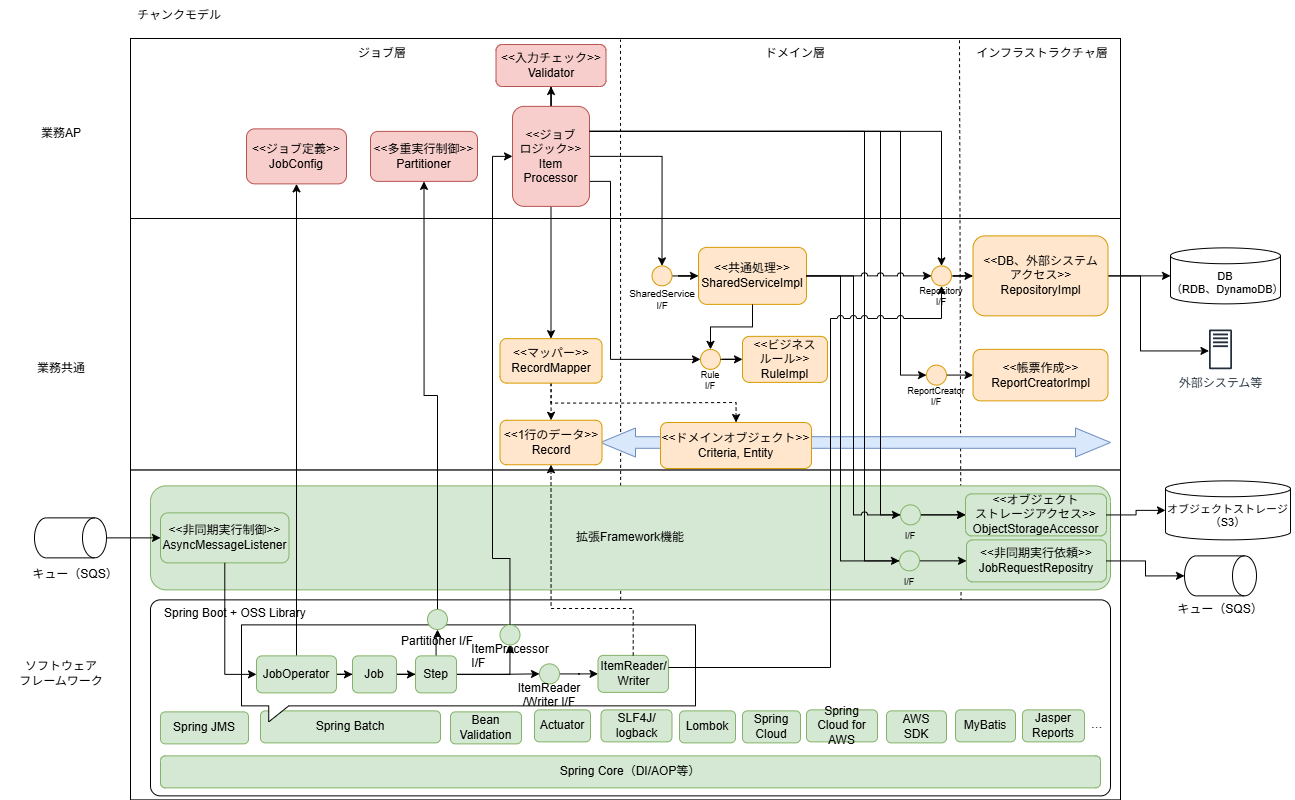
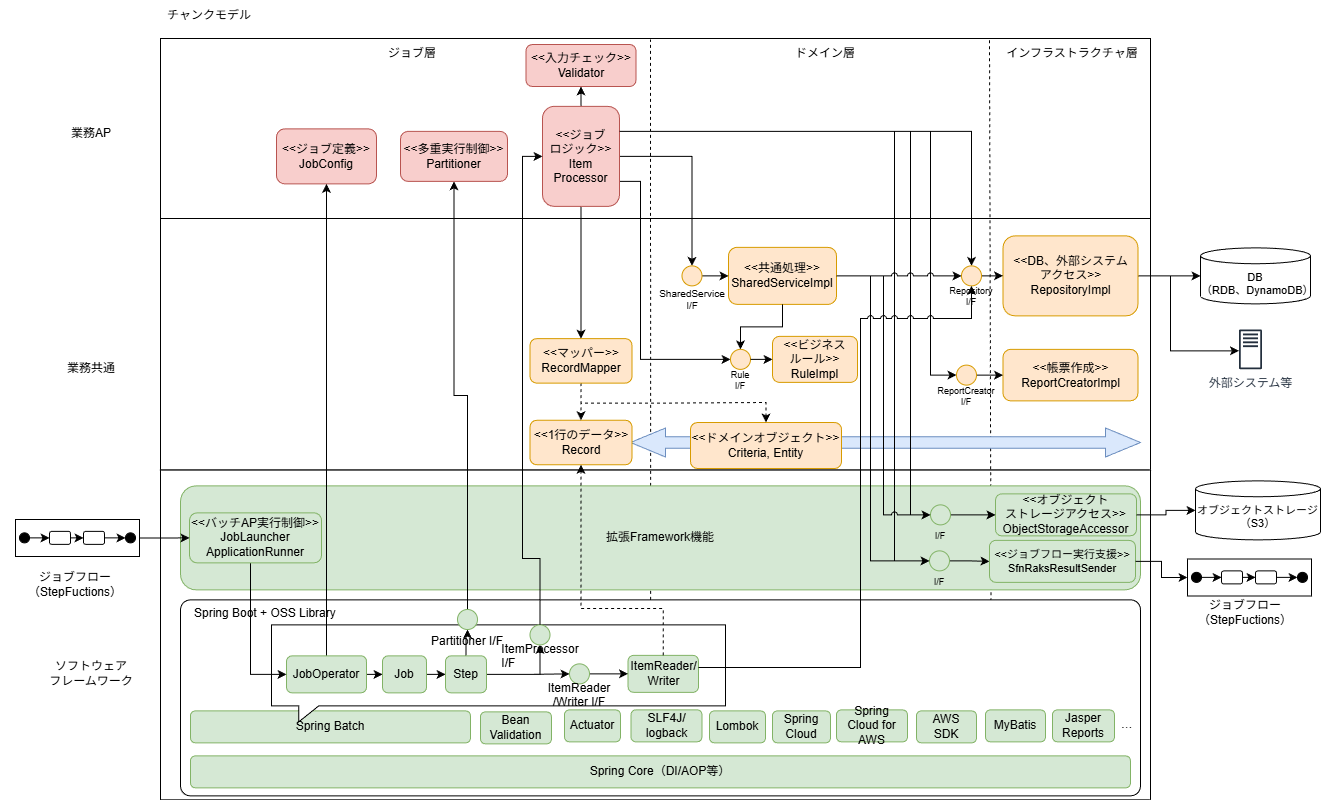
README修正

diff --git a/README.md b/README.md
@@ -1,11 +1,6 @@
 # SpringBootのジョブフローの純バッチアプリケーションサンプル
 
-> [!WARNING]
->
-> 現在、サンプルAPを作成中です。
-
-
-## 概要
+## 1. 概要
 * Spring BootでAWS Step Functionsを使って、ステートマシンをジョブの実行順序を管理するジョブフローとして実行する、バッチのサンプルAPである。
 * アプリケーションは、Spring Batchを使用しており、コマンドライン引数で指定されたジョブIDとジョブの入力データをもとに、ジョブを実行するようになっている。
 * Step Functionsのステートマシンからジョブの実行順序制御（実行順序制御するフローを「ジョブフロー」と呼ぶことにする）を行う。
@@ -23,33 +18,58 @@
 ![ソフトウェアアーキテクチャ（チャンク）](img/architecture-chunk.png)
 
 
-## プロジェクト構成
+## 2. プロジェクト構成
 * sample-batch-flow
     * 本プロジェクト。Spring Bootのバッチアプリケーションで、Step Functionsを介してジョブを処理することが可能である。    
         * デフォルトでは「spring.profiles.active」プロパティが「dev」になっている。プロファイルdevの場合は、RDB永続化にはH2DBによる組み込みDBになっている。
         * プロファイルproductionの場合は、RDB永続化にはPostgreSQL（AWS上はAurora等）になっている。
 
-## 事前準備
-* 以下のライブラリを用いているので、EclipseのようなIDEを利用する場合には、プラグインのインストールが必要
+## 3. 事前準備
+* 以下のライブラリを用いているので、EclipseやIntelliJのようなIDEを利用する場合には、プラグインのインストールが必要
     * [Lombok](https://projectlombok.org/)
         * [Eclipseへのプラグインインストール](https://projectlombok.org/setup/eclipse)
         * [IntelliJへのプラグインインストール](https://projectlombok.org/setup/intellij)
     * [Mapstruct](https://mapstruct.org/)
         * [EclipseやIntelliJへのプラグインインストール](https://mapstruct.org/documentation/ide-support/)
 
-## 動作手順
+
+## 4. IDEでのアプリ起動
 
 * Step Functionsを使ったAWS上での動作確認は、[こちら](https://github.com/mysd33/ecs-on-fargate-adot-cfn-demo)のCloudFormationのサンプルテンプレートを利用して、AWS上にAPをデプロイし、Step Functionsのステートマシンからジョブフローを実行することで可能である。
 
+* このため、ローカル上でのAP動作は、ジョブごとでの実行のみが可能である。
 
-* ローカル上でのAP動作は、ジョブごとでの実行のみが可能である。
+* com.example.batch.SampleBatchJobflowApplicationを起動することで、SpringBootのバッチアプリケーションが起動する。
+* コマンド引数として、以下のようなダミー値を渡す。
+    * Job901
+        * `--spring.batch.job.name=job901 inputData=input901`    
+    * Job902
+        * `--spring.batch.job.name=job902 inputData="{\"result\":\"result_job901\"}"`
+    * Job911
+        * `--spring.batch.job.name=job911 inputData=input911`
+    * Job912
+        * `--spring.batch.job.name=job912 inputData=input912`
+    * Job913
+        * `--spring.batch.job.name=job913 inputData="[{\"result\":\"result_job911\"},{\"result\":\"result_job912\"}]"`
+    * Job921
+        * `--spring.batch.job.name=job921 inputData=input921`    
+    * Job922
+        * `--spring.batch.job.name=job922 inputData="{\"result\":\"result_921_0\"}"`
+    * Job923
+        * `--spring.batch.job.name=job923 inputData="[{\"result\":\"result_job922_0\"},{\"result\":\"result_job922_1\"}]"`
+* 本来は、OS環境変数として`TASK_TOKEN`を渡す必要があるが、ローカルでの実行では省略可能である。
+
+## 5. Spring Bootの実行可能jarでの実行
+* TBD
+
+
+## 6. プロファイル「production」でのローカル実行
+* 「production」に切り替えるには、例えばJVM引数を「-Dspring.profiles.active=production」に変更するか、環境変数「SPRING_PROFILES_ACTIVE=production」を設定する等で起動する。
 
 > [!WARNING]
->
-> 現在、執筆中
+> 以降の手順が、最新化できていないので、今後見直し予定。
 
-
-## PostgreSQLのローカル起動
+### 6.1. PostgreSQLのローカル起動
 * Profileが「dev」でSpringBootアプリケーションを実行する場合、H2DBが起動するので、何もしなくてよい。
 * Profileが「production」に切り替えてSpringBootアプリケーションを実行する場合、DBがPostgreSQLで動作する設定になっているため、事前にPostgreSQLを起動する必要がある。
     * AWS上でAPを起動する場合はAurora for PostgreSQLや、RDS for PostgreSQLを起動しておくことを想定している。
@@ -65,7 +85,7 @@ docker exec -i -t test-postgres /bin/bash
 postgres> CREATE DATABASE testdb;
 ```
 
-## S3の設定
+### 6.2. S3の設定
 * Profileが「dev」でSpringBootアプリケーションを実行する場合、S3アクセスは無効化し、ローカルのファイルシステムアクセスする設定になっている。
     * application-dev.ymlの「example.s3.localfake.type」が「file」であり、「example.s3.localfake.base-dir」を一時保存するファイルシステムのディレクトリパスが現状、C:\tmpになっているので、フォルダの変更が必要な場合は、変更する。
         * 「sample-bff」アプリケーション側も変更が必要
@@ -87,7 +107,7 @@ postgres> CREATE DATABASE testdb;
         * [MinIOのダウンロードサイト](https://www.min.io/download/aistor-server?platform=windows)の手順にしたがってコマンドを実行しminio.exeをダウンロードする。
         * [REQUEST TRIAL LICENSE]のボタンをクリックし、必要事項を記入しライセンスキーを取得する。（メールアドレス宛にライセンスキーのメールが届くので、メール内のリンクをクリックしてライセンキーを確認する）
         * 取得したライセンスキーを、`minio.license`というファイル名で保存する
-    
+
         * 以下は、Windows版での起動例
             * C:\minioフォルダにminio.exe、minio.licenseを格納して、起動した例（デフォルトポート9000番ポートで起動、コンソールは9001番ポートで起動するので適宜変更すること）
 
@@ -179,8 +199,13 @@ postgres> CREATE DATABASE testdb;
     * application-production.ymlの「aws.s3.bucket」プロパティを作成したバケット名に変更する。
     * APがS3にアクセスする権限が必要なので、開発端末上でローカル実行する場合はS3のアクセス権限をもったIAMユーザのクレデンシャル情報が「%USERPROFILE%/.aws/credentials」や「~/.aws/credentials」に格納されている、もしくはEC2やECS等のAWS上のラインタイム環境で実行する場合は対象のAWSリソースにSQSのアクセス権限を持ったIAMロールが付与されている必要がある。
 
+* Profileが「production」でローカル実行する場合、上に「dev」の場合の記載の手順同様に、MinIO等のS3のFakeをローカルで起動しておく必要がある。
 
-## Dockerでのアプリ起動
+## 7. Dockerでのアプリ起動
+
+> [!WARNING]
+> 以降の手順が、最新化できていないので、今後見直し予定。
+
 * Mavenビルド
 ```sh
 #Windows
@@ -192,6 +217,8 @@ postgres> CREATE DATABASE testdb;
 ```sh
 docker build -t XXXXXXXXXXXX.dkr.ecr.ap-northeast-1.amazonaws.com/sample-batch-jobflow:latest .
 ```
+
+### 7.1. ローカルでDocker実行（Profileを「dev」でSpringBoot実行）の場合
 
 * ローカルでDocker実行（Profileを「dev」でSpringBoot実行）
 ```sh
@@ -205,6 +232,8 @@ docker run --name samplebatch-jobflow --env SPRING_PROFILES_ACTIVE=dev,log_conta
 --spring.batch.job.name=job901 inputData=input901
 ```
 
+### 7.2. ローカルでDocker実行（Profileを「production」でSpringBoot実行）　の場合
+
 
 * ローカルでDocker実行（Profileを「production」でSpringBoot実行）　
     * ※PostgreSQLのローカル起動も必要
@@ -216,13 +245,20 @@ docker run -v %USERPROFILE%\.aws\:/home/app/.aws/ --name samplebatch-jobflow --e
 docker run -v %USERPROFILE%\.aws\:/home/app/.aws/ --name samplebatch-jobflow --env SPRING_PROFILES_ACTIVE=production,log_container --env TASK_TOKEN=dummy --env SPRING_DATASOURCE_URL=jdbc:postgresql://host.docker.internal:5432/testdb XXXXXXXXXXXX.dkr.ecr.ap-northeast-1.amazonaws.com/sample-batch-jobflow:latest --spring.batch.job.name=job901 inputData=input901
 ```
 
-* ECRプッシュ
+
+## 8. ECRプッシュ
+* AWS上でECSやEKS等で動作させる場合は、事前にECRへDockerイメージをプッシュしておく必要がある。
+
 ```sh
 aws ecr get-login-password --region ap-northeast-1 | docker login --username AWS --password-stdin XXXXXXXXXXXX.dkr.ecr.ap-northeast-1.amazonaws.com
 docker push XXXXXXXXXXXX.dkr.ecr.ap-northeast-1.amazonaws.com/sample-batch-jobflow:latest
 ```
 
-## ソフトウェアフレームワーク
+## 9. AWS上でのアプリ起動
+* SpringBoot APをECS/Fargate等で動作させる場合は、[ecs-on-fargate-adot-cfn-demo](https://github.com/mysd33/ecs-on-fargate-adot-cfn-demo)を参照する。
+
+
+## 10. ソフトウェアフレームワーク
 * 本サンプルアプリケーションでは、ソフトウェアフレームワーク実装例も同梱している。簡単のため、アプリケーションと同じプロジェクトでソース管理している。
 * ソースコードはcom.example.fwパッケージ配下に格納されている。    
     * 本格的な開発を実施する場合には、業務アプリケーションと別のGitリポジトリとして管理し、CodeArtifactやSonatype NEXUSといったライブラリリポジトリサーバでjarを管理し、pom.xmlから参照するようにすべきであるし、テストやCI/CD等もちゃんとすべきであるが、ここでは、あえて同じプロジェクトに格納してノウハウを簡単に参考にしてもらいやすいようにしている。
